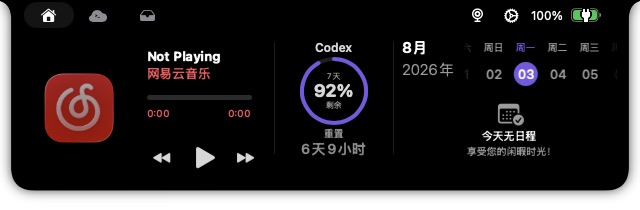
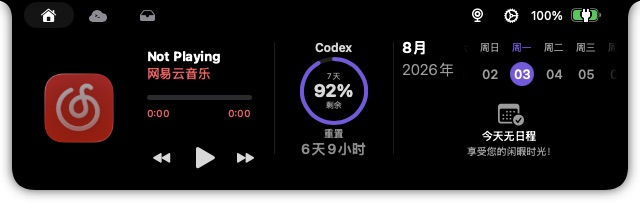
fix: align Home dashboard content to shared baseline

diff --git a/boringNotch/components/Notch/NotchHomeView.swift b/boringNotch/components/Notch/NotchHomeView.swift
@@ -432,12 +432,18 @@ struct CodexHomeUsageCard: View {
                 }
             }
         } label: {
-            VStack(spacing: 4) {
+            VStack(spacing: 0) {
                 Text("Codex")
-                    .font(.system(size: 12, weight: .semibold))
+                    .font(.system(size: 14, weight: .semibold))
+
+                Spacer()
+                    .frame(height: 8)
 
                 if let rateLimit = manager.dashboard?.rateLimit {
                     rateLimitRing(rateLimit)
+
+                    Spacer()
+                        .frame(height: 2)
 
                     VStack(spacing: 0) {
                         Text("重置")
@@ -465,7 +471,7 @@ struct CodexHomeUsageCard: View {
                         .foregroundStyle(.secondary)
                 }
             }
-            .frame(maxWidth: .infinity, maxHeight: .infinity)
+            .frame(maxWidth: .infinity, maxHeight: .infinity, alignment: .bottom)
             .contentShape(Rectangle())
         }
         .buttonStyle(.plain)

diff --git a/boringNotch/components/Calendar/BoringCalendar.swift b/boringNotch/components/Calendar/BoringCalendar.swift
@@ -220,8 +220,7 @@ struct CalendarView: View {
             )
             if filteredEvents.isEmpty {
                 EmptyEventsView(selectedDate: selectedDate)
-                    .offset(y: 18)
-                Spacer(minLength: 0)
+                    .frame(maxHeight: .infinity, alignment: .bottom)
             } else {
                 EventListView(events: calendarManager.events)
             }
@@ -252,7 +251,7 @@ struct EmptyEventsView: View {
     let selectedDate: Date
     
     var body: some View {
-        VStack {
+        VStack(spacing: 2) {
             Image(systemName: "calendar.badge.checkmark")
                 .font(.title)
                 .foregroundColor(Color(white: 0.65))
